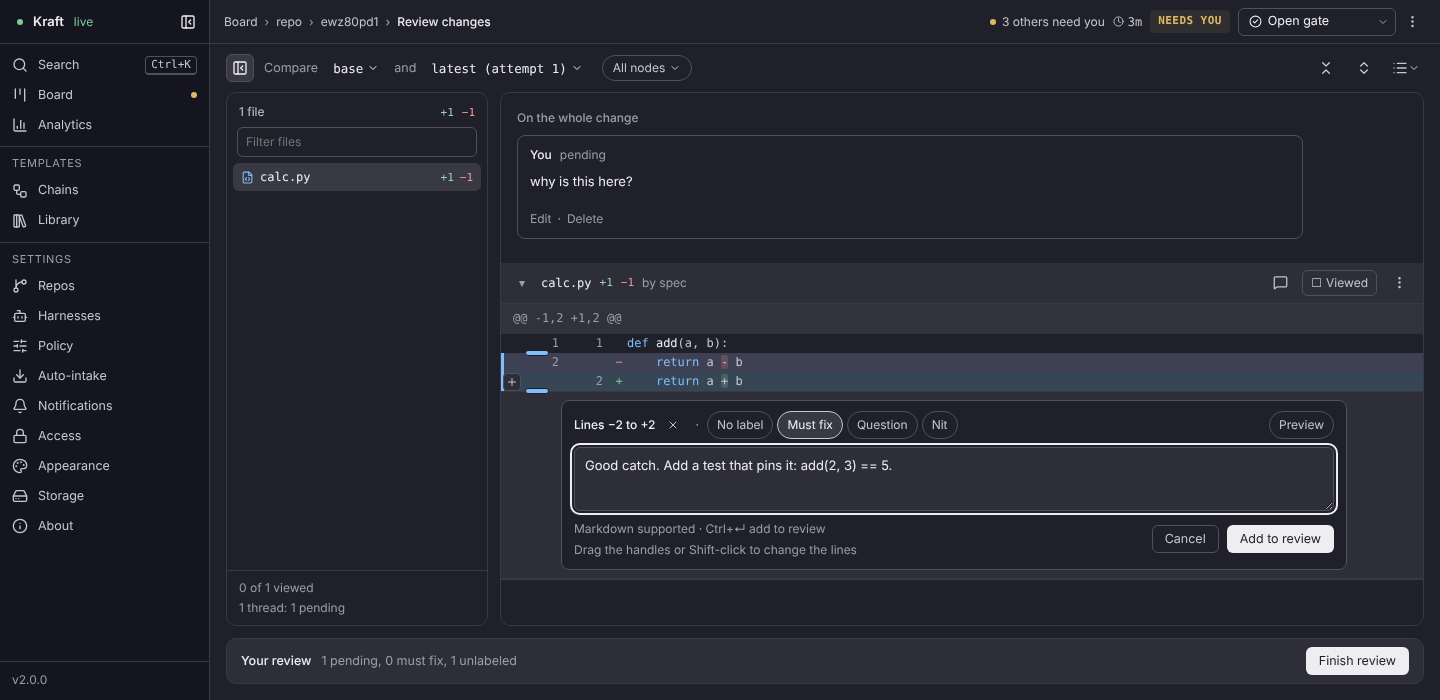
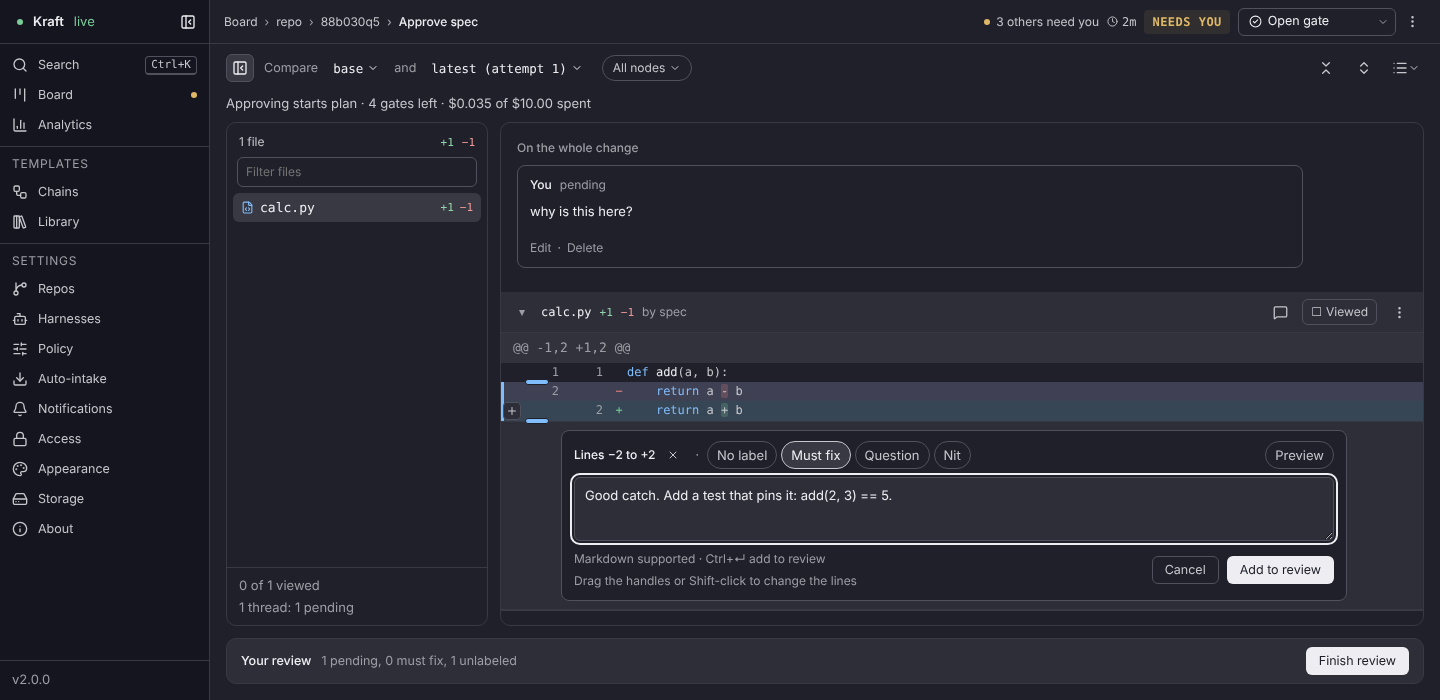
Retake the README and docs screenshots (second pass) (#811)
* Retake the README and docs screenshots on the type scale, shortcuts button and gate-page changes

Claude-Session: https://claude.ai/code/session_01WS52aVWjwnTrF2Ymed2qHh

* Retake gate.png with nothing focused

Claude-Session: https://claude.ai/code/session_01WS52aVWjwnTrF2Ymed2qHh

---------

diff --git a/README.md b/README.md
@@ -29,7 +29,7 @@ proposes, and rehearses them with `--verify`.
 [What's new in 2.0](https://kraft-sdlc.dev/next/get-started/whats-new)
 has the rest, and what to check before you upgrade from 1.4.
 
-![The Kraft board: work items grouped by Needs you (a paused, a failed and two waiting at a gate, each with its one button), Running, Not started, and Done](https://raw.githubusercontent.com/itsOmidKarami/kraft/main/.github/assets/board.png)
+![The Kraft board in the dark graphite look: work items grouped by Needs you (a paused item with Resume, a failed one with Retry, and two waiting at a gate, each with its one button), Running, Not started, and Done, with a Select all link on every group and a ? shortcuts button in the toolbar](https://raw.githubusercontent.com/itsOmidKarami/kraft/main/.github/assets/board.png)
 
 - **Gates where a human decides.** Kraft pauses at a spec, a plan, or a merge
   request for your approval; reject with a note and the node that wrote it
@@ -49,21 +49,21 @@ New here? [Why Kraft](https://kraft-sdlc.dev/get-started/why-kraft) covers what 
 *Kraft* is German for force; in English, its cousin *craft* means skill. Your agent brings the craft; Kraft is the force that carries it from spec to pull request.
 
 **A gate stops the chain where a human decides.** Read what the agent wrote,
-then approve, or reject with a note that re-runs the node that wrote it.
+then approve, or request changes with a note that re-runs the node that wrote it.
 
-![A spec an agent wrote, rendered on the item's review page and waiting for your approval, with Request changes and Approve](https://raw.githubusercontent.com/itsOmidKarami/kraft/main/.github/assets/gate.png)
+![The gate's review page headed Approve spec: Request changes and Approve buttons, a line saying Approving starts plan with the gates left and the spend, the spec an agent wrote rendered below, and the files on the branch with one pending comment](https://raw.githubusercontent.com/itsOmidKarami/kraft/main/.github/assets/gate.png)
 
 <table>
 <tr>
 <td width="60%">
 
-**Same app, phone-sized.** Below 768 pixels it switches to a phone layout on its own. Reach it from another device through a tunnel; see
+**Same app, phone-sized.** Below 768 pixels it switches to a phone layout on its own. A gate's card opens its review, so nothing is approved from the list. Reach it from another device through a tunnel; see
 [Remote access](https://kraft-sdlc.dev/guides/remote-access).
 
 </td>
 <td width="40%">
 
-![The board at a 390px phone viewport, with bottom tab navigation and cards for a paused, a failed and two gate-waiting items, each with one button](https://raw.githubusercontent.com/itsOmidKarami/kraft/main/.github/assets/mobile.png)
+![The board at a 390px phone viewport, with bottom tab navigation and filter chips, and cards for a paused item with Resume, a failed one with Retry, and gate-waiting items whose Review to approve button opens the review](https://raw.githubusercontent.com/itsOmidKarami/kraft/main/.github/assets/mobile.png)
 
 </td>
 </tr>
@@ -166,11 +166,11 @@ to file your first work item.
 
 ## Analytics
 
-Lead time, cost, and where both go — by node and by repo, over the last 8
-weeks (on a phone, the last 7, 30 or 90 days). Built from the same events the
+Lead time, cost, and where both go — by node and by repo, over a Range you pick:
+7 days, 30 days, 8 weeks (the default) or 90 days, the same menu on a desktop and a phone. Built from the same events the
 board renders live, not a separate pipeline.
 
-![The Analytics view over the last 8 weeks, with Range, Repo and Chain menus: completed count, median lead time, cost and repairs; merged items per week; a Waiting at each gate table; the top of the cost-by-node table](https://raw.githubusercontent.com/itsOmidKarami/kraft/main/.github/assets/analytics.png)
+![The Analytics view over 8 weeks, with Range, Repo and Chain menus: completed count, median lead time, cost and repairs per item; merged items per week; a Waiting at each gate table with waits, median, total and rejected for each gate; the top of the By node cost table](https://raw.githubusercontent.com/itsOmidKarami/kraft/main/.github/assets/analytics.png)
 
 ## Where to go next
 

diff --git a/frontend/README.md b/frontend/README.md
@@ -239,12 +239,12 @@ Retake the ones whose screen changed, and all of them when a release is cut:
 
 | File | Size | Shows |
 |---|---|---|
-| `board.png` | 1440×700 | the board, grouped by status: Needs you (paused, failed and two gates, each with its one button), Running, Not started, and the top of Done |
-| `gate.png` | 1440×700 | a work item at `spec_approval`: the review page with the gate's spec rendered |
+| `board.png` | 1440×700 | the board, grouped by status, with a Select all link on each group and the `?` shortcuts button in the toolbar: Needs you (paused, failed and two gates, each with its one button), Running, Not started, and the top of Done |
+| `gate.png` | 1440×700 | a work item at `spec_approval`: the review page headed Approve spec, with Request changes and Approve, the consequence line (what approving starts, gates left, spend) and the gate's spec rendered |
 | `search.png` | 1440×700 | Ctrl/⌘K with `caching` typed: an item and two documents, over the board |
-| `item.png` | 1440×700 | the same item's page, with the `spec_approval` gate selected: a Review and decide banner, the chain as a graph fitted beside the inspector with a +N cue for what lies past the edge, and the inspector with the gate's files, open thread, what it decides on, and Read spec.md, Review changes, Approve and Reject… |
+| `item.png` | 1440×700 | the same item's page, with the `spec_approval` gate selected: a Review and decide banner, the chain as a graph fitted beside the inspector, folded into pills (chain_revision) with a +N cue for what lies past the edge, and the inspector with the gate's files, open thread, what it decides on, and Read spec.md, Review changes, Approve and Reject… |
 | `review.png` | 1440×700 | the review page of that item on `calc.py`, with a comment being written on lines −2 to +2 (the removed line and its replacement), Must fix selected |
-| `analytics.png` | 1440×660 | the Analytics page: the Range, Repo and Chain menus, the four overview figures, Throughput by week, the Waiting at each gate table and the top of By node |
+| `analytics.png` | 1440×660 | the Analytics page: the Range, Repo and Chain menus, the four overview figures, Throughput by week, the Waiting at each gate table and the top of By node (times under a minute read `<1 min`) |
 | `chains.png` | 1440×700 | Templates › Chains on the `default` chain, with the `spec_approval` gate selected and its settings in the inspector |
 | `policy.png` | 1440×700 | Settings › Policy on its Limits section |
 | `setup.png` | 1440×700 | the setup wizard's first step, on a home with no repo connected |

diff --git a/docsite/content/5.reference/00.web-ui/2.item-page.md b/docsite/content/5.reference/00.web-ui/2.item-page.md
@@ -5,7 +5,7 @@ description: What an item's page shows, from the main action to the chain graph 
 
 An item's page shows one [work item](/concepts/vocabulary#work-item): its brief, its [chain](/concepts/vocabulary#chain) drawn as a graph, and an inspector for whatever you select. This page names the header's actions, the graph and the inspector's tabs, one heading for each part.
 
-![An item's page: a banner reading Waiting for your approval with a Review and decide button, the chain drawn as a graph with the spec_approval gate selected and a +13 cue for the nodes past the edge, and the inspector on the right showing the gate's files, an open thread, what it decides on, and the Read spec.md, Review changes, Approve and Reject buttons](/assets/item.png)
+![An item's page: a banner reading Waiting for your approval with a Review and decide button, the chain drawn as a graph with the spec_approval gate selected and a chain_revision pill standing for the nodes beyond it, a +13 cue for the nodes past the edge, and the inspector on the right showing the gate's files, an open thread, what it decides on, and the Read spec.md, Review changes, Approve and Reject buttons](/assets/item.png)
 
 ## The page
 

diff --git a/docsite/content/5.reference/00.web-ui/7.analytics.md b/docsite/content/5.reference/00.web-ui/7.analytics.md
@@ -5,7 +5,7 @@ description: What each figure, chart and table on the Analytics screen counts.
 
 The Analytics screen rolls up where the time and the money went across your [work items](/concepts/vocabulary#work-item). This page names each panel, figure and control, and says what each number counts. Open it from **Analytics** in the sidebar.
 
-![The Analytics screen for items created in the last 8 weeks: the Range, Repo and Chain filters, the Completed, Lead time, Cost and Repairs per item figures with a line of detail under each, a Throughput by week bar chart, and the Waiting at each gate table](/assets/analytics.png)
+![The Analytics screen for items created in the last 8 weeks: the Range, Repo and Chain filters, the Completed, Lead time, Cost and Repairs per item figures with a line of detail under each, a Throughput by week bar chart, the Waiting at each gate table, and the top of the By node table](/assets/analytics.png)
 
 ## What the screen counts
 

diff --git a/docsite/content/1.get-started/2.first-work-item.md b/docsite/content/1.get-started/2.first-work-item.md
@@ -193,7 +193,7 @@ While it runs, `kraft view list` shows its status and node. To watch it work,
 open the board in your browser, or run `kraft view watch` in a third terminal. `watch` takes no ID, redraws a live board on every event, and
 holds its terminal until you press Ctrl-C. The web board looks like this:
 
-![The Kraft board: work items grouped by Needs you (a paused, a failed and two waiting at a gate, each with its one button), Running, Not started, and Done](/assets/board.png)
+![The Kraft board in the dark graphite look: work items grouped by Needs you (a paused item with Resume, a failed one with Retry, and two waiting at a gate, each with its one button), Running, Not started, and Done, with a Select all link on every group and a ? shortcuts button in the toolbar](/assets/board.png)
 
 The [Web UI](/reference/web-ui) reference describes each screen in the picture.
 

diff --git a/docsite/content/5.reference/00.web-ui/1.board.md b/docsite/content/5.reference/00.web-ui/1.board.md
@@ -5,7 +5,7 @@ description: The board's four groups, what the button on a row does, the filters
 
 The board lists every [work item](/concepts/vocabulary#work-item), grouped by what it needs from you. This page names its groups, a row's buttons, the filters, and the side panel that opens when you click a row.
 
-![The Kraft board: work items grouped by Needs you (a paused, a failed and two waiting at a gate, each with its one button), Running, Not started, and Done](/assets/board.png)
+![The Kraft board in the dark graphite look: work items grouped by Needs you (a paused item with Resume, a failed one with Retry, and two waiting at a gate, each with its one button), Running, Not started, and Done, with a Select all link on every group and a ? shortcuts button in the toolbar](/assets/board.png)
 
 ## The groups
 

diff --git a/docsite/content/1.get-started/3.the-real-chain.md b/docsite/content/1.get-started/3.the-real-chain.md
@@ -75,7 +75,7 @@ the nodes still to run and proposes changes to them, and when it proposes none,
 which is usual, the gate passes without asking you. Each gate shows up under
 *Needs you* on the board. Open one to read the document it is about:
 
-![A spec an agent wrote, rendered on the item's review page and waiting for your approval, with Request changes and Approve](/assets/gate.png)
+![The gate's review page headed Approve spec: Request changes and Approve buttons, a line saying Approving starts plan with the gates left and the spend, the spec an agent wrote rendered below, and the files on the branch with one pending comment](/assets/gate.png)
 
 `kraft view artifact ID` reads the document the gate is about, and
 `kraft item approve ID` approves it, as **Approve** does at the gate on the

diff --git a/docsite/content/3.guides/1.day-to-day/8.kraft-on-a-phone.md b/docsite/content/3.guides/1.day-to-day/8.kraft-on-a-phone.md
@@ -11,7 +11,7 @@ Your phone must be able to reach the server. See [Remote access](/guides/run/rem
 
 ## The layout
 
-![The board at a 390px phone viewport, with bottom tab navigation and cards for a paused, a failed and two gate-waiting items, each with one button](/assets/mobile.png){width="300"}
+![The board at a 390px phone viewport, with bottom tab navigation and filter chips, and cards for a paused item with Resume, a failed one with Retry, and gate-waiting items whose Review to approve button opens the review](/assets/mobile.png){width="300"}
 
 The layout switches on its own when the window is narrower than 768 pixels, with
 no setting to turn on. It is the same app at the same address, so a link copied

diff --git a/docsite/content/index.md b/docsite/content/index.md
@@ -54,7 +54,7 @@ ui:
 :::landing-shot
 ---
 src: /assets/board.png
-alt: 'The Kraft board: work items grouped by Needs you (a paused, a failed and two waiting at a gate, each with its one button), Running, Not started, and Done'
+alt: 'The Kraft board in the dark graphite look: work items grouped by Needs you (a paused item with Resume, a failed one with Retry, and two waiting at a gate, each with its one button), Running, Not started, and Done, with a Select all link on every group and a ? shortcuts button in the toolbar'
 crop: 210 0 1230 688
 width: 1440
 ---
